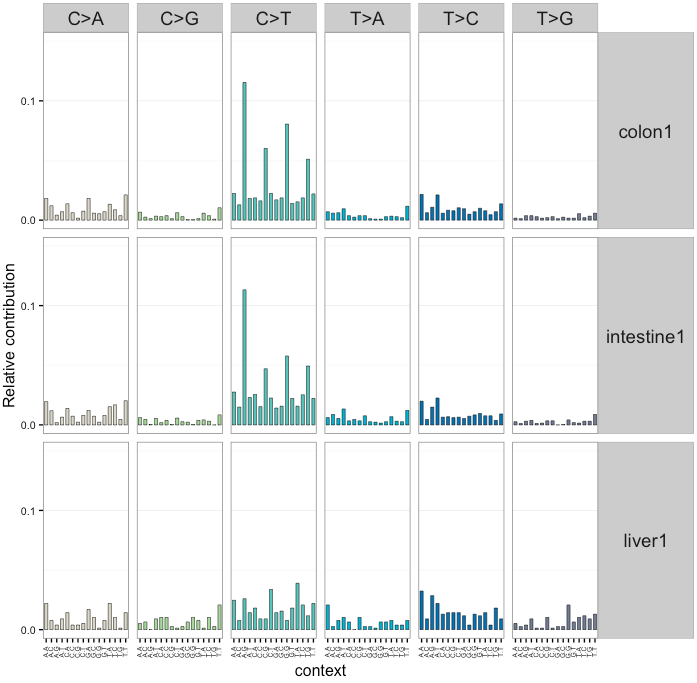
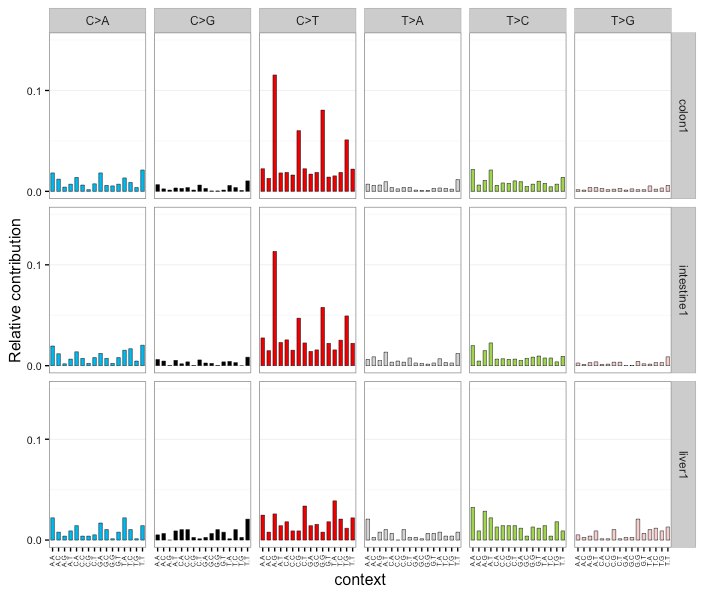
manual on readme update

Changed region(s): [[0.0, 0.0, 1.0, 1.0]]

diff --git a/README.md b/README.md
@@ -2,7 +2,20 @@
 
 The MutationalPatterns R package provides a comprehensive set of flexible functions for easy finding and plotting of mutational patterns in Single Nucleotide Variant (SNV) data.
 
+NEW RELEASE: 
+* Faster vcf file read
+* Automatic check and exclusion of positions in vcf with indels and/or multiple alternative alleles 
+* Default plotting colours to standard
+
+NEW FUNCTIONALITIES
+* Function to make chromosome names uniform according to e.g. UCSC standard
+* Transcriptional strand bias analysis
+* Signature extraction (NMF) with transcriptional strand information
+* Enrichment/depletion test for genomic annotations
+
 Please give credit and cite MutationalPatterns R Package when you use it for your data analysis. For information on how to cite this package in your publication execute:
+
+PAPER ON bioRxiv
 
   ```{r}
   citation("MutationalPatterns")
@@ -13,7 +26,7 @@ Please give credit and cite MutationalPatterns R Package when you use it for you
 
 ### Installation
 
-This package is dependent on R version 3.2.4
+This package is dependent on R version 3.3.1
 
 Install and load devtools package
 
@@ -45,11 +58,11 @@ Install and load MutationalPatterns package
   library(ref_genome, character.only = T)
   ```
   
-### Load SNV data
+### Load base substitution data
 
 This package is for the analysis of patterns in SNV data only, therefore the vcf files should not contain indel positions.
 
-Find package SNV example data
+Find package base substitution example/test data
   ```{r}
   vcf_files = list.files(system.file("extdata", package="MutationalPatterns"), full.names = T)
   ```
@@ -62,12 +75,30 @@ Load a single vcf file
 Load a list of vcf files
   ```{r}
   sample_names = c("colon1", "colon2", "colon3", "intestine1", "intestine2", "intestine3", "liver1", "liver2", "liver3")
-  vcfs = read_vcf(vcf_files, sample_names)
+  vcfs = read_vcf(vcf_files, sample_names, genome = "hg19")
   ```
 
 Include relevant metadata in your analysis, e.g. donor id, cell type, age, tissue type, mutant or wild type
   ```{r}
   tissue = c("colon", "colon", "colon", "intestine", "intestine", "intestine", "liver", "liver", "liver")
+  ```
+
+### Make chromosome names uniform
+
+Check if chromosome names in vcf(s) and reference genome are the same
+  ```{r}
+  all(seqlevels(vcfs[[1]]) %in% seqlevels(get(ref_genome)))
+  ```
+
+If not, rename the seqlevels to the UCSC standard
+  ```{r}
+  vcfs = lapply(vcfs, function(x) rename_chrom(x))
+  ```
+  
+Select autosomal chromosomes
+  ```{r}
+  auto = extractSeqlevelsByGroup(species="Homo_sapiens", style="UCSC", group="auto")
+  vcfs = lapply(vcfs, function(x) keepSeqlevels(x, auto))
   ```
 
 ##  Analyses
@@ -106,7 +137,7 @@ Count mutation type occurences for all samples in a list of vcf objects
 
 ### Mutation spectrum
 
-Plot mutation spectrum over all samples. Plottes is the mean relative contribution of each of the 6 base substitution types. Error bars indicate standard deviation over all samples. The n indicates the total number of mutations in the set.
+Plot mutation spectrum over all samples. Plots the mean relative contribution of each of the 6 base substitution types. Error bars indicate standard deviation over all samples. The n indicates the total number of mutations in the set.
   ```{r}
   plot_spectrum(type_occurences)
   ```
@@ -141,7 +172,7 @@ Specify 7 colors for spectrum plotting
 
 Make 96 trinucleodide mutation count matrix
   ```{r}
-  mut_matrix = make_mut_matrix(vcf_list = vcfs, ref_genome = ref_genome)
+  mut_matrix = mut_matrix(vcf_list = vcfs, ref_genome = ref_genome)
   ```
 
 Plot 96 profile of three samples
@@ -177,11 +208,22 @@ Plot signature contribution
   ```{r}
   # provide signature names (optional)
   rownames(nmf_res$contribution) = c("Signature A", "Signature B" , "Signature C")
-  # plot signature contribution
-  plot_contribution(nmf_res$contribution, coord_flip = T)
+  # plot relative signature contribution
+  plot_contribution(nmf_res$contribution, nmf_res$signature, mode = "relative")
+  # plot absolute signature contribution
+  plot_contribution(nmf_res$contribution, nmf_res$signature, mode = "absolute")
   ```
 
-  ![contribution](https://github.com/CuppenResearch/MutationalPatterns/blob/develop/images/contribution.png)
+  ![contribution1](https://github.com/CuppenResearch/MutationalPatterns/blob/develop/images/contribution1.png)
+  
+    ```{r}
+  # plot contribution of signatures for subset of samples with index parameter
+  plot_contribution(nmf_res$contribution, nmf_res$signature, mode = "absolute", index = c(1,2))
+  # flip X and Y coordinates
+  plot_contribution(nmf_res$contribution, nmf_res$signature, mode = "absolute", coord_flip = T)
+  ```
+  
+  ![contribution2](https://github.com/CuppenResearch/MutationalPatterns/blob/develop/images/contribution2.png)
 
 Compare reconstructed mutation profile with original mutation profile
 
